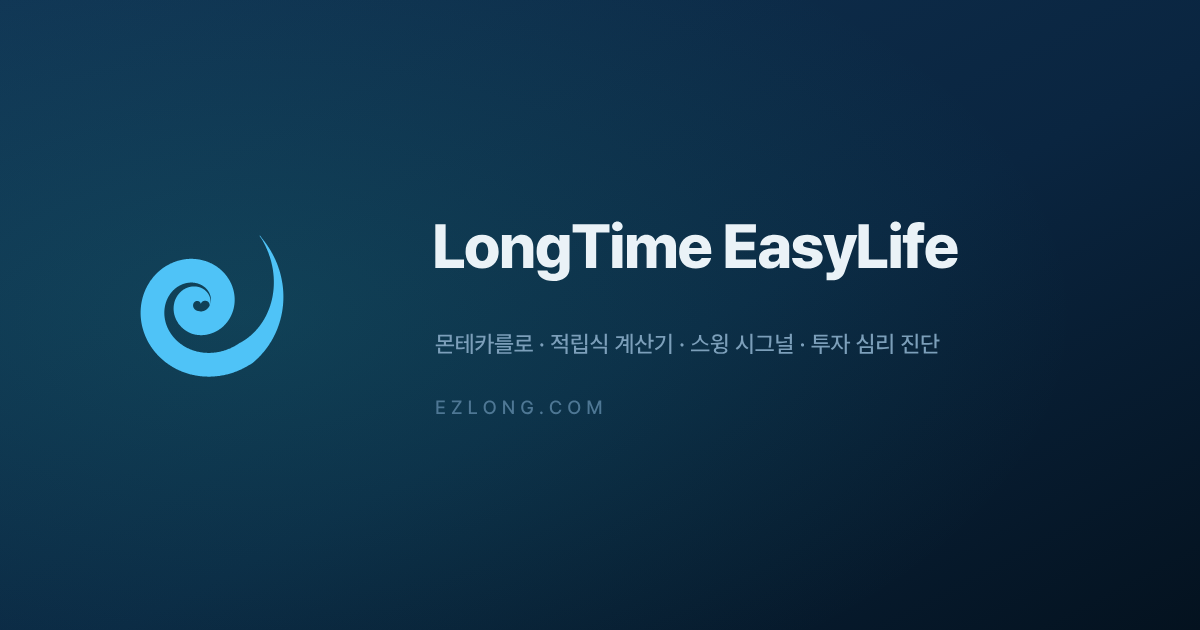
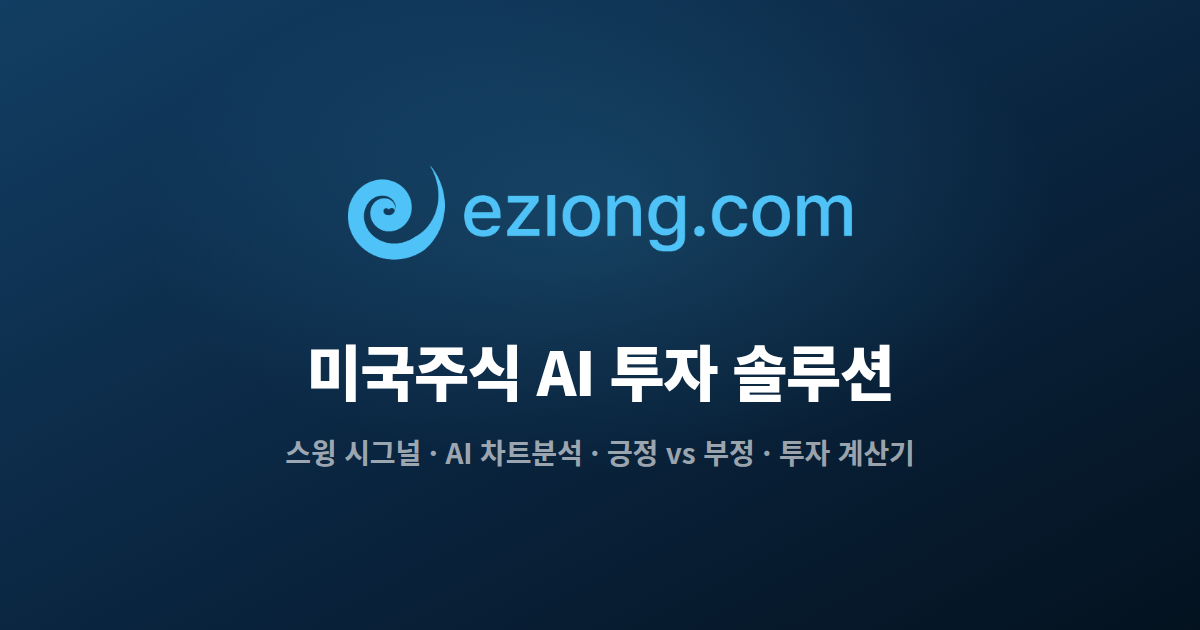
assets: 사이트 공통 OG 카드 재제작 - 앱 이름을 뺀다
149개 페이지가 쓰는 공통 카드가 브랜드 락업 때문에 'LongTime EasyLife'
(시계 앱 이름)를 크게 달고 있었다. 메인의 og:title 은 'EZLONG | 미국주식
AI 투자 솔루션' 인데 그림은 다른 것을 가리키던 상태.

오너 판단: 헤더 락업은 그대로 두고 공유 카드에서만 뺀다.

- scripts/og-cards/site.html + wordmark-dark.png (나선 + ezlong.com 한 줄)
  락업은 원본에서 좌표로 떼어 만든다 - 글자를 재조판하지 않는다(38항)
- og/og-1200x630.png 덮어쓰기. 파일명 유지라 149곳 경로는 그대로

Claude-Session: https://claude.ai/code/session_018D9xCLko6ZpP7xMtXo5qSj

Changed region(s): [[0.0925, 0.3921, 0.8017, 0.6635], [0.2775, 0.2714, 0.8017, 0.4524], [0.2467, 0.6937, 0.7708, 0.754]]

diff --git a/scripts/og-cards/site.html b/scripts/og-cards/site.html
@@ -1,0 +1,27 @@
+<!doctype html><html lang="ko"><head><meta charset="utf-8">
+<link rel="stylesheet" href="base.css">
+<style>
+body{background:#04121F}
+.card{
+  background:
+    radial-gradient(58% 62% at 50% 34%, rgba(79,195,247,.16) 0%, rgba(79,195,247,0) 66%),
+    linear-gradient(152deg, #123E63 0%, #0A2540 52%, #04121F 100%);
+  color:#fff;
+  flex-direction:column;align-items:center;justify-content:center;
+  text-align:center;padding:0 80px;
+}
+.lockup{width:520px;display:block;margin-bottom:46px}
+.line{
+  font-size:60px;font-weight:900;letter-spacing:-.025em;line-height:1.18;
+  margin-bottom:26px;
+}
+.corners{
+  font-size:28px;font-weight:600;letter-spacing:-.005em;
+  color:rgba(255,255,255,.62);
+}
+</style></head><body>
+<div class="card">
+  <img class="lockup" src="wordmark-dark.png" alt="">
+  <div class="line">미국주식 AI 투자 솔루션</div>
+  <div class="corners">스윙 시그널 · AI 차트분석 · 긍정 vs 부정 · 투자 계산기</div>
+</div></body></html>
